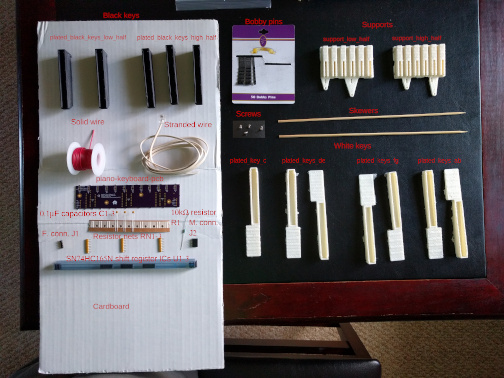
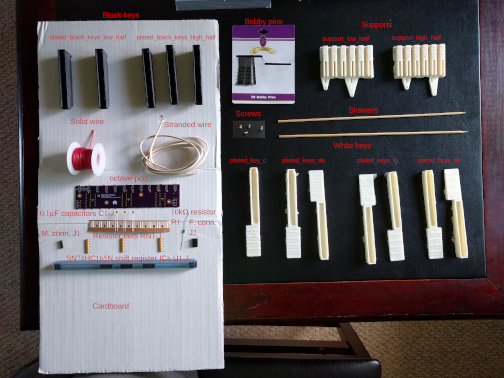
add picture of end parts to BOM; fix labels in picture of octave parts

diff --git a/BOM.md b/BOM.md
@@ -56,6 +56,8 @@ Note that many of these parts are shared between the octaves and the end piece, 
 
 ## End Bill of Materials
 
+![picture of most of the parts listed below, laid out on a table](images/end_parts.jpg)
+
 Parts and quantities for one Teensy-based end piece.
 
 ### Printed plastic parts
